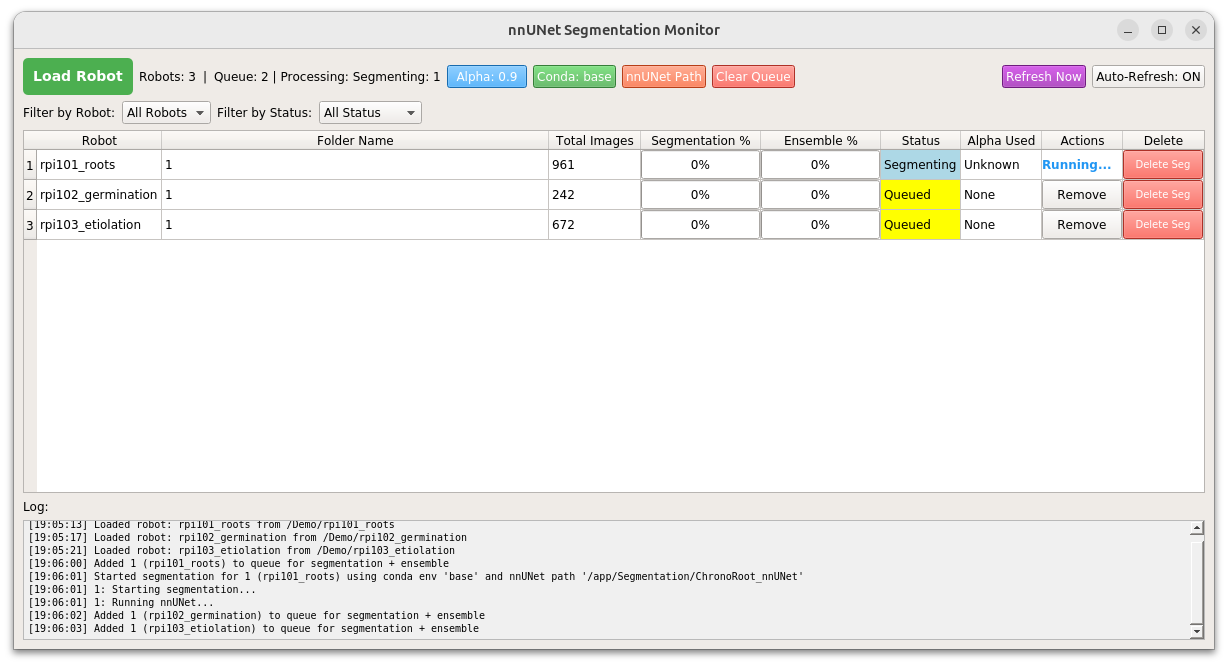
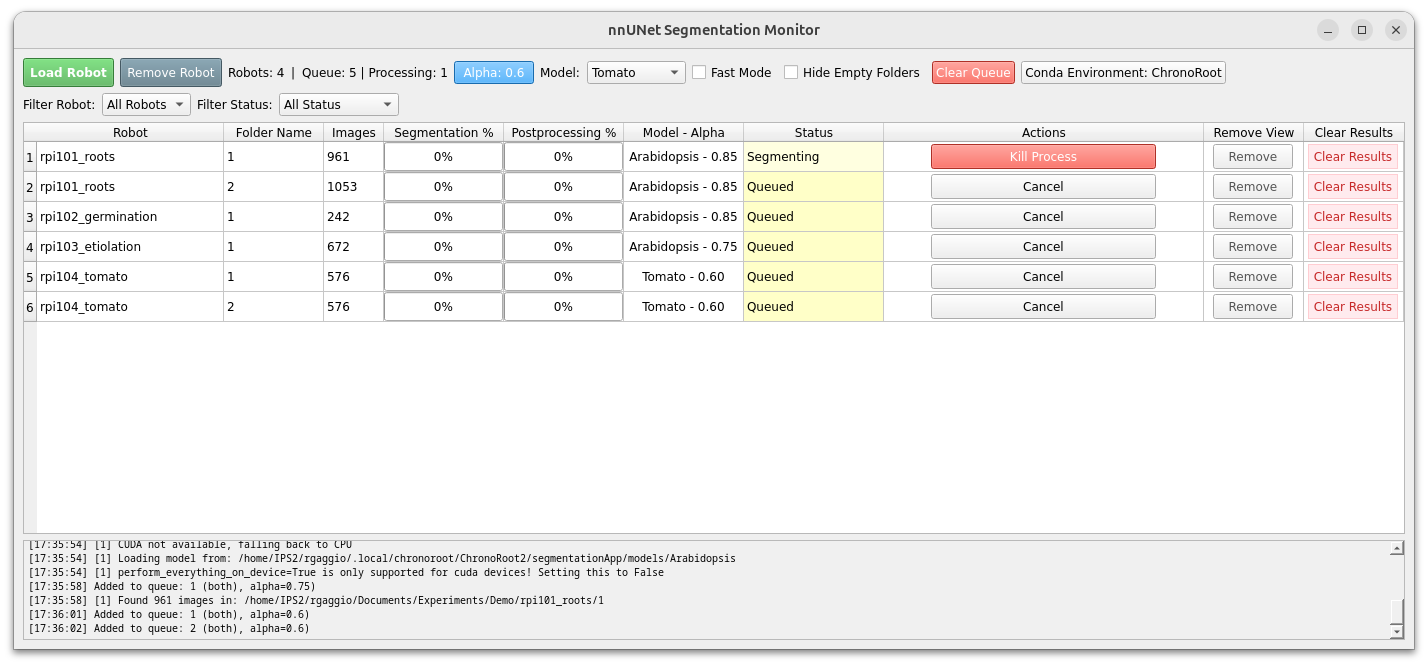
Segmentation changes

diff --git a/docs/tutorials/segmentation.md b/docs/tutorials/segmentation.md
@@ -1,47 +1,82 @@
 ## Graphical User Interface (GUI) Usage
 
-To begin the segmentation process, launch the segmentation interface. This will open the main segmentation window.
+To begin the segmentation process, launch the segmentation interface. This will open the main **ChronoRoot** monitor window.
+
+The interface is divided into the **Header (Configuration)** and the **Table (Monitoring)**. Hover over any button to see a detailed tooltip explanation of its function.
 
 ![Segmentation Interface Main Window](segmentation_images/0.png)
 
-The interface contains only a few buttons:
+### 1. Configuration & Setup
 
-* **Load Robot:** Imports data from a Raspberry Pi module, including time series data from all four hardware module cameras
-* **Conda:** Specifies the Anaconda environment name (leave unchanged if using Docker or installing by Conda .yml)
-* **Alpha:** Defined for weighted average trailing in post-processing.
-* **Species selector:** defines which model weights to load, as stored in the models folder.
-* **Fast Mode:** won’t perform test-time augmentation if selected. 3x speed increase at the cost of a small loss in performance.
+Before running the pipeline, configure your parameters using the top bar:
 
-**Load Your Data:** 
+* **Load Robot:** Imports data from your experiment folders. This supports **multi-selection**—you can select multiple robot folders at once in the dialog.
+* **Remove Robot:** Unloads the currently filtered robot from the view (does not delete files from disk).
+* **Model Selector:** Choose the appropriate species model (e.g., *Arabidopsis* or *Tomato*). The list automatically populates from the `models/` directory.
+    * *Note:* Changing the model automatically sets the recommended Alpha value.
+* **Alpha:** Defines the parameter for the weighted average trailing used in post-processing to ensure temporal stability.
+* **Fast Mode:** If checked, disables Test-Time Augmentation (TTA). This results in a 3x speed increase with a minor trade-off in segmentation precision.
+* **Hide Empty Folders:** Hides folders that contain no images to declutter the interface.
+* **Conda:** Specifies the Anaconda environment name (Default: `ChronoRoot`).
 
-Begin by loading all robot datasets individually from the demo folder. In this demonstration, each robot contains data from one camera, with three robots total corresponding to each experiment.
+### 2. Loading Data
+
+Begin by loading your dataset. Click **Load Robot** and navigate to your experiment folder. In this demonstration, we load 4 raspberry pi modules where each folder contains one or more time-lapse experiments.
 
 ![Segmentation Interface Load Robot](segmentation_images/1.png)
 
-**Queue Your Jobs and Monitor Progress:** 
+### 3. Monitoring Status & Mismatches
 
-Add all robot folders to the processing queue. You'll notice the status indicator will update to either "Processing" or "Queued" depending on the current workload. The log panel at the bottom displays important process information and updates. Allow the complete segmentation process to finish before proceeding to the next step.
+Once loaded, the table displays the progress of every folder. The **Model - Alpha** column shows exactly which parameters were used to generate the existing results.
+
+The **Status** column uses color-coding to indicate the current state:
+
+**Standard Statuses:**
+
+* **Grey (Not Started):** Ready to process.
+* **Yellow (Queued):** Waiting for a worker thread.
+* **Light Yellow (Segmenting):** Neural network inference is active.
+* **Purple (Postprocessing):** Temporal refinement is active.
+* **Green (Complete):** Both segmentation and post-processing finished successfully.
+* **Orange (Stalled):** The process hasn't updated in a long time (e.g., due to a power outage).
+* **Red (Error):** The process failed (check the log panel for details).
+
+**Mismatch Statuses:**
+These warnings appear in **Gold** when the settings currently selected in the GUI do not match the metadata of the processed folder:
+
+* **Different Alpha:** The folder was processed with an Alpha value different from the one currently set in the top bar.
+* **Different Model:** The folder was segmented using a different model species than the one currently selected.
+
+### 4. Context-Sensitive Actions
+
+The **Actions** column automatically adapts based on the status to suggest the most logical next step:
+
+* **Start Pipeline:** Runs the full process for new folders.
+* **Resume:** appears if a process is **Stalled** or had an **Error**, allowing you to continue from the last saved image.
+* **Update Alpha:** appears if the status is **Different Alpha**. Clicking this runs *only* the post-processing step with the new value (fast).
+* **Rerun Pipeline:** appears if the status is **Different Model**. This re-runs the entire segmentation using the new model.
+* **Postproc Only:** appears if the status is **Different Model and Alpha**. This re-runs only the post-processing step with the new Alpha. 
+* **Kill Process:** appears if a job is currently running, allowing you to force-stop it.
+
+*(Far Right)* **Clear Results:** This button **permanently deletes** the segmentation output folder for that row, allowing for a completely fresh start.
 
 ![Segmentation Interface Loaded Images](segmentation_images/2.png)
 ![Segmentation Interface Queue](segmentation_images/3.png)
 ![Segmentation Interface Queue progress](segmentation_images/4.png)
 
----
-
 ## Command Line Interface (CLI) Usage
 
-If you prefer working in a headless environment, automating tasks, or simply wish to avoid the graphical interface, you can perform segmentation directly via the command line.
+If you prefer working in a headless environment, automating tasks, or simply wish to avoid the graphical interface, you can perform segmentation directly via the command line using `cli.py`.
 
 **Prerequisites:**
 Before running the commands below, ensure you have loaded the `ChronoRoot` environment.
 
 ### Basic Usage
 
-The basic syntax requires pointing the script to your input folder (equivalent to "Load Robot" in the GUI).
+The basic syntax requires pointing the script to your input folder and specifying the model name.
 
 ```bash
-python cli_interface.py /path/to/your/images
-
+python cli.py /path/to/your/images --model Arabidopsis
 ```
 
 ### Common Examples
@@ -50,24 +85,21 @@ python cli_interface.py /path/to/your/images
 Runs the default segmentation for Arabidopsis using the GPU.
 
 ```bash
-python cli_interface.py /path/to/dataset --species arabidopsis
-
+python cli.py /path/to/dataset --model Arabidopsis
 ```
 
 **2. Tomato Segmentation in Fast Mode**
 Use this for Tomato datasets if you want faster results (skips test-time augmentation).
 
 ```bash
-python cli_interface.py /path/to/dataset --species tomato --fast
-
+python cli.py /path/to/dataset --model Tomato --fast
 ```
 
 **3. Custom Post-processing**
 If you need to adjust the **Alpha** parameter (weighted average trailing) specifically for your dataset:
 
 ```bash
-python cli_interface.py /path/to/dataset --species arabidopsis --alpha 0.90
-
+python cli.py /path/to/dataset --model Arabidopsis --alpha 0.90
 ```
 
 ### Argument Reference
@@ -75,11 +107,12 @@ python cli_interface.py /path/to/dataset --species arabidopsis --alpha 0.90
 | Argument | Description | GUI Equivalent |
 | --- | --- | --- |
 | `input` | **Required.** Path to the folder containing images. | "Load Robot" |
-| `--species` | Choose between `arabidopsis` (default) or `tomato`. | "Species selector" |
+| `--model`, `-m` | **Required.** The specific model to use (must match a folder in `models/`). | "Species selector" |
 | `--fast` | Disables test-time augmentation for 3x speed (slight performance cost). | "Fast Mode" |
-| `--alpha` | Set the alpha parameter for post-processing logic. | "Alpha" |
+| `--alpha`, `-a` | Set the alpha parameter for post-processing logic. | "Alpha" |
 | `--device` | Specify hardware: `cuda` (default), `cpu`, or `mps`. | N/A |
-| `--postprocess-only` | Skip segmentation and rerun post-processing on existing results. | N/A |
+| `--postprocess-only` | Skip segmentation and rerun post-processing on existing results. | "Actions -> Postproc Only" |
+| `--resume` | Resume a stopped run using existing metadata. | "Actions -> Resume Pipeline" |
 
 ### Output Structure
 

diff --git a/docs/index.md b/docs/index.md
@@ -4,10 +4,10 @@
 
 <p align="center">
   <a href="http://arxiv.org/abs/2504.14736"><img src="https://img.shields.io/badge/arXiv-2504.14736-red.svg" alt="DOI"></a>
-  <a href="https://github.com/ChronoRoot/ChronoRoot2/blob/main/LICENSE"><img src="https://img.shields.io/github/license/ChronoRoot/ChronoRoot2" alt="License"></a>
+  <a href="https://github.com/ngaggion/ChronoRoot2/blob/master/LICENSE"><img src="https://img.shields.io/github/license/ngaggion/ChronoRoot2" alt="License"></a>
   <a href="https://hub.docker.com/r/ngaggion/chronoroot"><img src="https://img.shields.io/docker/pulls/ngaggion/chronoroot.svg" alt="Docker"></a>
+  <a href="https://huggingface.co/ngaggion/models"><img src="https://img.shields.io/badge/%F0%9F%A4%97%20Hugging%20Face-Models-yellow" alt="Hugging Face Models"></a>
 </p>
-
 
 **ChronoRoot 2.0** is a comprehensive, open-source solution that merges affordable hardware with state-of-the-art Deep Learning to automate the tracking and analysis of plant development. It includes three specialized graphical interfaces. On Linux and Windows 10 (via WSL2), these are installed with custom desktop launchers for a point-and-click experience.
 
@@ -24,12 +24,15 @@
 
 ### Latest News & Major Updates
 
+- **28 Jan 2026**: Hugging Face Integration: Model weights are now hosted on the Hugging Face Hub!
+  - The repository is now lightweight and clone-friendly.
+  - Installers have been updated to fetch the latest models automatically.
+  - Added a download weights script for easy manual updates.
 - **07 Jan 2026:** Added desktop shortcut support for Windows 10 users (via WSL2).
 - **15 Dec 2025:** Updated desktop launchers with custom ChronoRoot icons.
 - **11 Dec 2025:** Introduced **Apptainer** as the primary installer to support HPC clusters. Docker is now reserved for Mac or advanced users.
 - **08 Nov 2025:** Unified the repository into a **single Conda environment** for simplified maintenance and setup.
 - **30 Oct 2025:** **nnUNetv2 Port:**
-    - Models are now included directly in the repo.
     - Added a new CLI and removed the dependency on the custom nnUNet fork; models now load directly via PyTorch.
     - New model weights are available for *Arabidopsis thaliana* and Tomato multi-class segmentation.
 - **20 Apr 2025:** 🚀 **ChronoRoot 2.0 Released!** Featuring a revamped segmentation engine, enhanced analysis modules, and improved UX.
@@ -54,6 +57,9 @@ All updates refer to the [ChronoRoot Dataset on HuggingFace](https://huggingface
 ## Installation
 
 Choose the method that best fits your setup. Native and Apptainer installations provide three desktop shortcuts for ease of use.
+
+!!! note "Automatic Model Download" 
+    The installers below will automatically check for and download the latest segmentation model weights from Hugging Face during setup. 
 
 !!! info "Windows 11 Users"
     Note, for Windows 11 users shortcuts are not **yet** available. Please run ChronoRoot applications via WSL terminal, we will be adding shortcut support in a near future update.
@@ -137,5 +143,6 @@ If you use ChronoRoot 2.0 in your research, please cite our work:
 * :fontawesome-brands-python: **Module Control:** [https://github.com/ChronoRoot/ChronoRootControl](https://github.com/ChronoRoot/ChronoRootControl)
 * :fontawesome-solid-database: **Training Dataset:** [https://huggingface.co/datasets/ngaggion/ChronoRoot2](https://huggingface.co/datasets/ngaggion/ChronoRoot2)
 * :material-google-drive: **Demo Data:** [https://drive.google.com/drive/folders/1PJCn_MMHcM9KPgz8dYe1F2Cvdt43FS3Z?usp=sharing](https://drive.google.com/drive/folders/1PJCn_MMHcM9KPgz8dYe1F2Cvdt43FS3Z?usp=sharing)
+* :hugging: **Model Weights:** [https://huggingface.co/ngaggion/models](https://huggingface.co/ngaggion/models)
 
 ---
